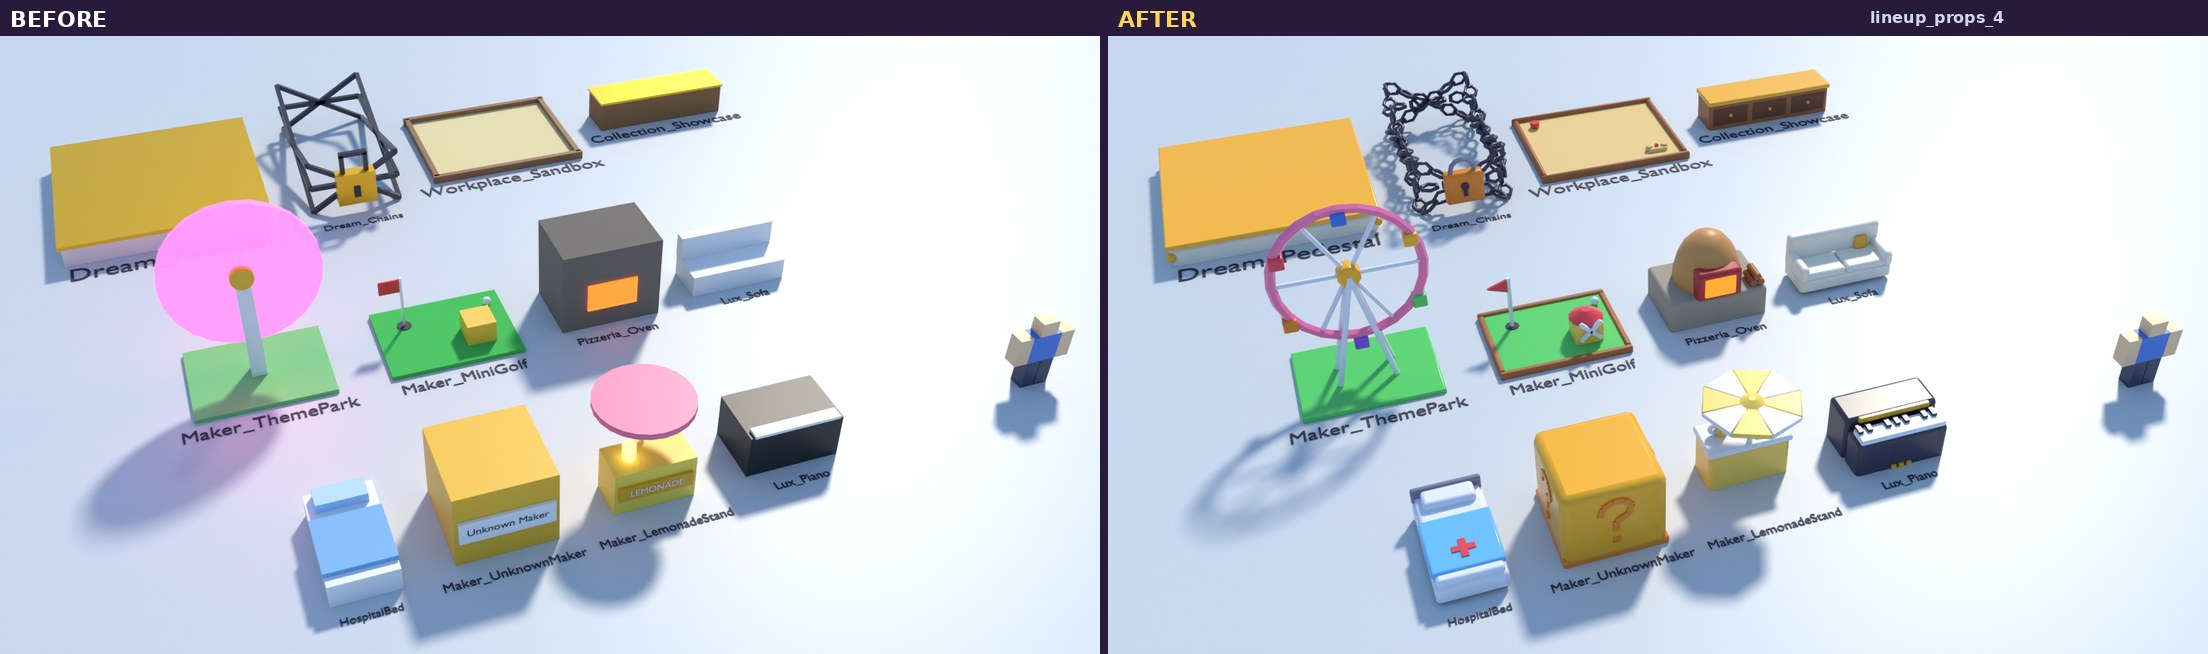
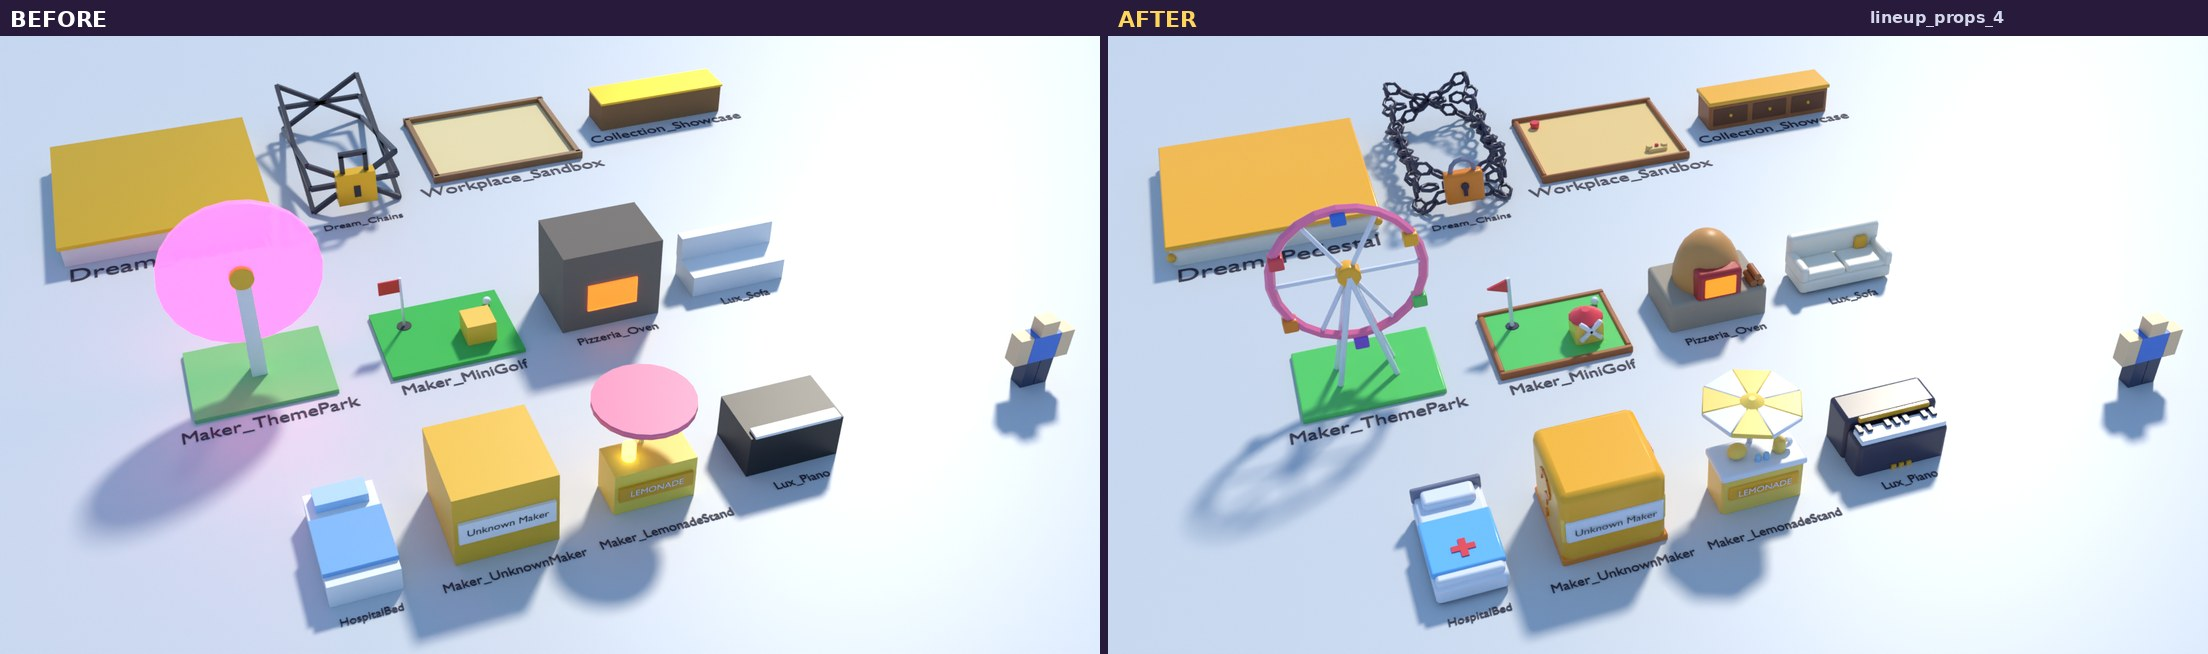
World overhaul: AFTER lineups re-rendered (objects face the camera, sign text placed)
Claude-Session: https://claude.ai/code/session_01Jieur9Bqiay9EDrebX1tpj

diff --git a/world_overhaul/tools/blender/lineups.py b/world_overhaul/tools/blender/lineups.py
@@ -27,6 +27,8 @@ import wo  # noqa: E402
 
 
 MODELS = {}
+# signs whose readable side faces +Z; some get their words only at runtime, so there is no text to detect
+FACES_BACK = {"Lobby_TitleSign", "AuctionRoom_TitleSign", "AuctionRoom_InfoBoard", "PodiumRoom_TitleSign"}
 
 
 def source_objects(templates, name, phase):
@@ -56,7 +58,7 @@ def build_page(templates, names, phase, page_col):
                     texts.append((text, inv @ text.matrix_basis))
         # text on the back (Roblox +Z = Blender -Y): turn the object around its box center to face the camera
         flip = Matrix.Identity(4)
-        if texts and all(rel.translation.y < -0.01 for _, rel in texts):
+        if name in FACES_BACK or (texts and all(rel.translation.y < -0.01 for _, rel in texts)):
             lo, hi = t["bbox_min"], t["bbox_max"]
             c = Vector(((lo[0] + hi[0]) / 2, -(lo[2] + hi[2]) / 2, 0))
             flip = Matrix.Translation(c) @ Matrix.Rotation(math.pi, 4, "Z") @ Matrix.Translation(-c)

diff --git a/world_overhaul/REPORT.md b/world_overhaul/REPORT.md
@@ -1,6 +1,6 @@
 # Rags to Riches - new look for the whole world (report)
 
-Written 2026-10-04 23:47. Start here; everything else is linked from this page.
+Written 2026-10-04 23:56. Start here; everything else is linked from this page.
 
 ## In short
 

diff --git a/world_overhaul/PROGRESS.md b/world_overhaul/PROGRESS.md
@@ -1,7 +1,7 @@
 # Progress
 
 If you (or I after a restart) pick this up: read this file and STYLE_GUIDE.md first.
-Updated: 2026-10-04 23:47
+Updated: 2026-10-04 23:56
 
 ## Current step
 
